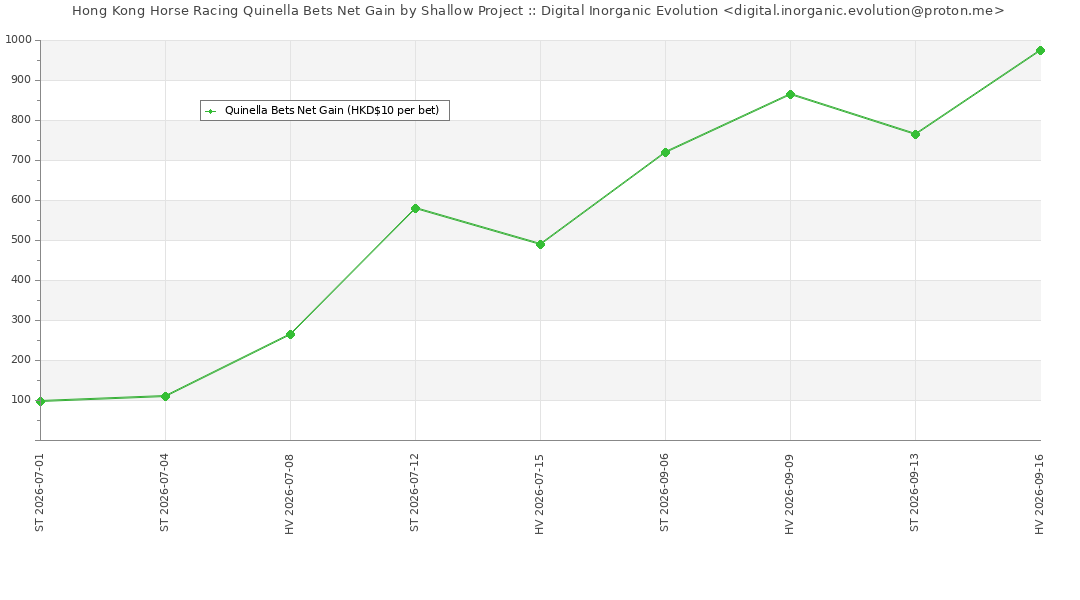
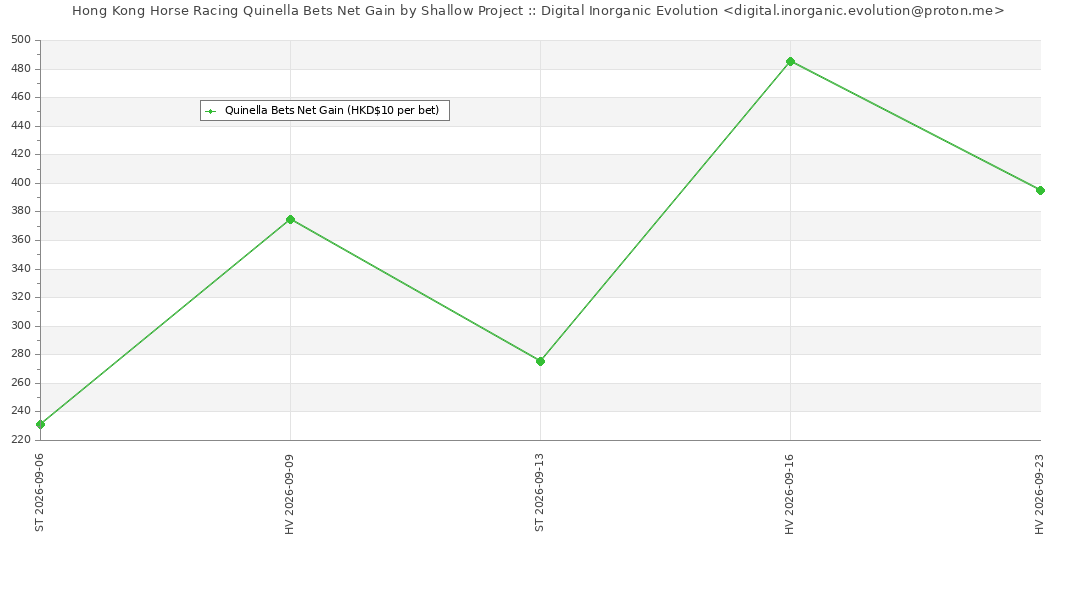
HKJC Prediction 2026-09-23

diff --git a/shallow.html b/shallow.html
@@ -14,14 +14,14 @@
 </head>
 <body>
 <h1>Digital Inorganic Evolution by <a href='https://viewlaboratory.wordpress.com/' target='_blank'>VIEWLab</a> 數碼無機進化賭博研究實驗室</h1>
-<h1>Shallow Project Experiment Results (2026-07-01 ~ )</h1>
+<h1>Shallow Project Experiment Results (2026-09-01 ~ )</h1>
 <p>
 <h2>Shallow Project :: HKJC Quinella Bets Net Gain Graph</h2>
 <img src='shallow.jpg'>
 <hr>
 <p>
 <h2>Betting Details</h2>
-	<table border=1><table id='shallow-table' class='cell-border compact stripe nowrap' border=1><thead><tr><th>RaceDate</th><th>RaceNo</th><th>H1HorseNo</th><th>H2HorseNo</th><th>H1Place</th><th>H2Place</th><th>Dividend Quinella</th></tr></thead><tbody><tr><td>2026-07-01</td><td>01</td><td>10</td><td>11</td><td>2</td><td>4</td><td>-10</td></tr><tr><td>2026-07-01</td><td>02</td><td>7</td><td>10</td><td>11</td><td>8</td><td>-10</td></tr><tr><td>2026-07-01</td><td>03</td><td>10</td><td>14</td><td>8</td><td>3</td><td>-10</td></tr><tr><td>2026-07-01</td><td>04</td><td>2</td><td>6</td><td>1</td><td>11</td><td>-10</td></tr><tr><td>2026-07-01</td><td>05</td><td>6</td><td>10</td><td>9</td><td>4</td><td>-10</td></tr><tr><td>2026-07-01</td><td>06</td><td>3</td><td>6</td><td>8</td><td>2</td><td>-10</td></tr><tr><td>2026-07-01</td><td>07</td><td>2</td><td>12</td><td>3</td><td>2</td><td>-10</td></tr><tr><td>2026-07-01</td><td>08</td><td>1</td><td>3</td><td>11</td><td>1</td><td>-10</td></tr><tr><td>2026-07-01</td><td>09</td><td>6</td><td>12</td><td>10</td><td>3</td><td>-10</td></tr><tr><td>2026-07-01</td><td>10</td><td>2</td><td>3</td><td><font color=red>2</font></td><td><font color=red>1</font></td><td><font color=red>207.00</font></td></tr><tr><td>2026-07-01</td><td>11</td><td>3</td><td>7</td><td>3</td><td>1</td><td>-10</td></tr><tr><td>2026-07-04</td><td>01</td><td>2</td><td>9</td><td>1</td><td>3</td><td>-10</td></tr><tr><td>2026-07-04</td><td>02</td><td>5</td><td>10</td><td>3</td><td>7</td><td>-10</td></tr><tr><td>2026-07-04</td><td>03</td><td>8</td><td>11</td><td>9</td><td>2</td><td>-10</td></tr><tr><td>2026-07-04</td><td>04</td><td>1</td><td>5</td><td>5</td><td>6</td><td>-10</td></tr><tr><td>2026-07-04</td><td>05</td><td>12</td><td>13</td><td>9</td><td>3</td><td>-10</td></tr><tr><td>2026-07-04</td><td>06</td><td>1</td><td>5</td><td>11</td><td>12</td><td>-10</td></tr><tr><td>2026-07-04</td><td>07</td><td>6</td><td>12</td><td>3</td><td>2</td><td>-10</td></tr><tr><td>2026-07-04</td><td>08</td><td>2</td><td>9</td><td>8</td><td>2</td><td>-10</td></tr><tr><td>2026-07-04</td><td>09</td><td>2</td><td>3</td><td>12</td><td>1</td><td>-10</td></tr><tr><td>2026-07-04</td><td>10</td><td>6</td><td>12</td><td>2</td><td>3</td><td>-10</td></tr><tr><td>2026-07-04</td><td>11</td><td>1</td><td>5</td><td><font color=red>1</font></td><td><font color=red>2</font></td><td><font color=red>122.50</font></td></tr><tr><td>2026-07-08</td><td>01</td><td>3</td><td>10</td><td>1</td><td>6</td><td>-10</td></tr><tr><td>2026-07-08</td><td>02</td><td>4</td><td>6</td><td>4</td><td>2</td><td>-10</td></tr><tr><td>2026-07-08</td><td>03</td><td>1</td><td>11</td><td>4</td><td>1</td><td>-10</td></tr><tr><td>2026-07-08</td><td>04</td><td>1</td><td>7</td><td><font color=red>1</font></td><td><font color=red>2</font></td><td><font color=red>198.00</font></td></tr><tr><td>2026-07-08</td><td>05</td><td>3</td><td>6</td><td>6</td><td>5</td><td>-10</td></tr><tr><td>2026-07-08</td><td>06</td><td>3</td><td>4</td><td><font color=red>2</font></td><td><font color=red>1</font></td><td><font color=red>48.00</font></td></tr><tr><td>2026-07-08</td><td>07</td><td>2</td><td>5</td><td>9</td><td>5</td><td>-10</td></tr><tr><td>2026-07-08</td><td>08</td><td>2</td><td>11</td><td>12</td><td>2</td><td>-10</td></tr><tr><td>2026-07-08</td><td>09</td><td>7</td><td>11</td><td>8</td><td>1</td><td>-10</td></tr><tr><td>2026-07-12</td><td>01</td><td>1</td><td>4</td><td>1</td><td>5</td><td>-10</td></tr><tr><td>2026-07-12</td><td>02</td><td>7</td><td>10</td><td>1</td><td>4</td><td>-10</td></tr><tr><td>2026-07-12</td><td>03</td><td>10</td><td>14</td><td>3</td><td>6</td><td>-10</td></tr><tr><td>2026-07-12</td><td>04</td><td>2</td><td>7</td><td>1</td><td>11</td><td>-10</td></tr><tr><td>2026-07-12</td><td>05</td><td>1</td><td>3</td><td>3</td><td>6</td><td>-10</td></tr><tr><td>2026-07-12</td><td>06</td><td>6</td><td>8</td><td>12</td><td>3</td><td>-10</td></tr><tr><td>2026-07-12</td><td>07</td><td>9</td><td>10</td><td>9</td><td>4</td><td>-10</td></tr><tr><td>2026-07-12</td><td>08</td><td>5</td><td>10</td><td>7</td><td>8</td><td>-10</td></tr><tr><td>2026-07-12</td><td>09</td><td>4</td><td>8</td><td>7</td><td>3</td><td>-10</td></tr><tr><td>2026-07-12</td><td>10</td><td>4</td><td>13</td><td><font color=red>2</font></td><td><font color=red>1</font></td><td><font color=red>424.00</font></td></tr><tr><td>2026-07-12</td><td>11</td><td>1</td><td>6</td><td>5</td><td>6</td><td>-10</td></tr><tr><td>2026-07-15</td><td>01</td><td>11</td><td>12</td><td>2</td><td>4</td><td>-10</td></tr><tr><td>2026-07-15</td><td>02</td><td>2</td><td>9</td><td>4</td><td>2</td><td>-10</td></tr><tr><td>2026-07-15</td><td>03</td><td>8</td><td>12</td><td>5</td><td>8</td><td>-10</td></tr><tr><td>2026-07-15</td><td>04</td><td>1</td><td>4</td><td>2</td><td>4</td><td>-10</td></tr><tr><td>2026-07-15</td><td>05</td><td>3</td><td>12</td><td>4</td><td>1</td><td>-10</td></tr><tr><td>2026-07-15</td><td>06</td><td>1</td><td>11</td><td>4</td><td>2</td><td>-10</td></tr><tr><td>2026-07-15</td><td>07</td><td>10</td><td>11</td><td>5</td><td>1</td><td>-10</td></tr><tr><td>2026-07-15</td><td>08</td><td>5</td><td>11</td><td>6</td><td>3</td><td>-10</td></tr><tr><td>2026-07-15</td><td>09</td><td>2</td><td>11</td><td>4</td><td>2</td><td>-10</td></tr><tr><td>2026-09-06</td><td>01</td><td>4</td><td>11</td><td>6</td><td>5</td><td>-10</td></tr><tr><td>2026-09-06</td><td>02</td><td>1</td><td>6</td><td>1</td><td>5</td><td>-10</td></tr><tr><td>2026-09-06</td><td>03</td><td>1</td><td>3</td><td>1</td><td>6</td><td>-10</td></tr><tr><td>2026-09-06</td><td>04</td><td>1</td><td>12</td><td>2</td><td>12</td><td>-10</td></tr><tr><td>2026-09-06</td><td>05</td><td>1</td><td>11</td><td>13</td><td>9</td><td>-10</td></tr><tr><td>2026-09-06</td><td>06</td><td>1</td><td>3</td><td><font color=red>1</font></td><td><font color=red>2</font></td><td><font color=red>153.50</font></td></tr><tr><td>2026-09-06</td><td>07</td><td>3</td><td>4</td><td>6</td><td>8</td><td>-10</td></tr><tr><td>2026-09-06</td><td>08</td><td>1</td><td>2</td><td><font color=red>1</font></td><td><font color=red>2</font></td><td><font color=red>177.50</font></td></tr><tr><td>2026-09-06</td><td>09</td><td>4</td><td>5</td><td>4</td><td>1</td><td>-10</td></tr><tr><td>2026-09-06</td><td>10</td><td>6</td><td>12</td><td>9</td><td>12</td><td>-10</td></tr><tr><td>2026-09-09</td><td>01</td><td>5</td><td>10</td><td>3</td><td>4</td><td>-10</td></tr><tr><td>2026-09-09</td><td>02</td><td>1</td><td>9</td><td>1</td><td>4</td><td>-10</td></tr><tr><td>2026-09-09</td><td>03</td><td>4</td><td>11</td><td>4</td><td>3</td><td>-10</td></tr><tr><td>2026-09-09</td><td>04</td><td>2</td><td>4</td><td>4</td><td>2</td><td>-10</td></tr><tr><td>2026-09-09</td><td>05</td><td>4</td><td>5</td><td>6</td><td>4</td><td>-10</td></tr><tr><td>2026-09-09</td><td>06</td><td>2</td><td>5</td><td>12</td><td>3</td><td>-10</td></tr><tr><td>2026-09-09</td><td>07</td><td>1</td><td>2</td><td><font color=red>1</font></td><td><font color=red>2</font></td><td><font color=red>224.00</font></td></tr><tr><td>2026-09-09</td><td>08</td><td>8</td><td>10</td><td>4</td><td>7</td><td>-10</td></tr><tr><td>2026-09-13</td><td>01</td><td>10</td><td>11</td><td>1</td><td>3</td><td>-10</td></tr><tr><td>2026-09-13</td><td>02</td><td>8</td><td>11</td><td>1</td><td>3</td><td>-10</td></tr><tr><td>2026-09-13</td><td>03</td><td>4</td><td>12</td><td>6</td><td>7</td><td>-10</td></tr><tr><td>2026-09-13</td><td>04</td><td>2</td><td>11</td><td>1</td><td>6</td><td>-10</td></tr><tr><td>2026-09-13</td><td>05</td><td>2</td><td>11</td><td>1</td><td>5</td><td>-10</td></tr><tr><td>2026-09-13</td><td>06</td><td>5</td><td>9</td><td>2</td><td>4</td><td>-10</td></tr><tr><td>2026-09-13</td><td>07</td><td>3</td><td>13</td><td>6</td><td>12</td><td>-10</td></tr><tr><td>2026-09-13</td><td>08</td><td>12</td><td>13</td><td>5</td><td>6</td><td>-10</td></tr><tr><td>2026-09-13</td><td>09</td><td>2</td><td>4</td><td>3</td><td>4</td><td>-10</td></tr><tr><td>2026-09-13</td><td>10</td><td>1</td><td>11</td><td>9</td><td>7</td><td>-10</td></tr><tr><td>2026-09-16</td><td>01</td><td>2</td><td>7</td><td>8</td><td>7</td><td>-10</td></tr><tr><td>2026-09-16</td><td>02</td><td>3</td><td>8</td><td><font color=red>1</font></td><td><font color=red>2</font></td><td><font color=red>110.50</font></td></tr><tr><td>2026-09-16</td><td>03</td><td>6</td><td>7</td><td><font color=red>2</font></td><td><font color=red>1</font></td><td><font color=red>179.50</font></td></tr><tr><td>2026-09-16</td><td>04</td><td>3</td><td>12</td><td>1</td><td>3</td><td>-10</td></tr><tr><td>2026-09-16</td><td>05</td><td>6</td><td>8</td><td>1</td><td>6</td><td>-10</td></tr><tr><td>2026-09-16</td><td>06</td><td>2</td><td>3</td><td>1</td><td>9</td><td>-10</td></tr><tr><td>2026-09-16</td><td>07</td><td>2</td><td>8</td><td>10</td><td>8</td><td>-10</td></tr><tr><td>2026-09-16</td><td>08</td><td>6</td><td>8</td><td>6</td><td>11</td><td>-10</td></tr></tbody></table></table><table border=1><tr><td>Num. Bets</td><td>Num. Quinella Win</td><td>Quinella Accuracy</td><td>Bet Total$</td><td>Quinella Win$</td><td>Ratio</td></tr><td>87</td><td>10</td><td>0.115</td><td>$870</td><td><font color=red>$1844.5 ($974.5)</font></td><td>1.12</td></tr><table border=1><hr>		<li><i>Enquiries: digital.inorganic.evolution@proton.me</i></li>
+	<table border=1><table id='shallow-table' class='cell-border compact stripe nowrap' border=1><thead><tr><th>RaceDate</th><th>RaceNo</th><th>H1HorseNo</th><th>H2HorseNo</th><th>H1Place</th><th>H2Place</th><th>Dividend Quinella</th></tr></thead><tbody><tr><td>2026-09-06</td><td>01</td><td>4</td><td>11</td><td>6</td><td>5</td><td>-10</td></tr><tr><td>2026-09-06</td><td>02</td><td>1</td><td>6</td><td>1</td><td>5</td><td>-10</td></tr><tr><td>2026-09-06</td><td>03</td><td>1</td><td>3</td><td>1</td><td>6</td><td>-10</td></tr><tr><td>2026-09-06</td><td>04</td><td>1</td><td>12</td><td>2</td><td>12</td><td>-10</td></tr><tr><td>2026-09-06</td><td>05</td><td>1</td><td>11</td><td>13</td><td>9</td><td>-10</td></tr><tr><td>2026-09-06</td><td>06</td><td>1</td><td>3</td><td><font color=red>1</font></td><td><font color=red>2</font></td><td><font color=red>153.50</font></td></tr><tr><td>2026-09-06</td><td>07</td><td>3</td><td>4</td><td>6</td><td>8</td><td>-10</td></tr><tr><td>2026-09-06</td><td>08</td><td>1</td><td>2</td><td><font color=red>1</font></td><td><font color=red>2</font></td><td><font color=red>177.50</font></td></tr><tr><td>2026-09-06</td><td>09</td><td>4</td><td>5</td><td>4</td><td>1</td><td>-10</td></tr><tr><td>2026-09-06</td><td>10</td><td>6</td><td>12</td><td>9</td><td>12</td><td>-10</td></tr><tr><td>2026-09-09</td><td>01</td><td>5</td><td>10</td><td>3</td><td>4</td><td>-10</td></tr><tr><td>2026-09-09</td><td>02</td><td>1</td><td>9</td><td>1</td><td>4</td><td>-10</td></tr><tr><td>2026-09-09</td><td>03</td><td>4</td><td>11</td><td>4</td><td>3</td><td>-10</td></tr><tr><td>2026-09-09</td><td>04</td><td>2</td><td>4</td><td>4</td><td>2</td><td>-10</td></tr><tr><td>2026-09-09</td><td>05</td><td>4</td><td>5</td><td>6</td><td>4</td><td>-10</td></tr><tr><td>2026-09-09</td><td>06</td><td>2</td><td>5</td><td>12</td><td>3</td><td>-10</td></tr><tr><td>2026-09-09</td><td>07</td><td>1</td><td>2</td><td><font color=red>1</font></td><td><font color=red>2</font></td><td><font color=red>224.00</font></td></tr><tr><td>2026-09-09</td><td>08</td><td>8</td><td>10</td><td>4</td><td>7</td><td>-10</td></tr><tr><td>2026-09-13</td><td>01</td><td>10</td><td>11</td><td>1</td><td>3</td><td>-10</td></tr><tr><td>2026-09-13</td><td>02</td><td>8</td><td>11</td><td>1</td><td>3</td><td>-10</td></tr><tr><td>2026-09-13</td><td>03</td><td>4</td><td>12</td><td>6</td><td>7</td><td>-10</td></tr><tr><td>2026-09-13</td><td>04</td><td>2</td><td>11</td><td>1</td><td>6</td><td>-10</td></tr><tr><td>2026-09-13</td><td>05</td><td>2</td><td>11</td><td>1</td><td>5</td><td>-10</td></tr><tr><td>2026-09-13</td><td>06</td><td>5</td><td>9</td><td>2</td><td>4</td><td>-10</td></tr><tr><td>2026-09-13</td><td>07</td><td>3</td><td>13</td><td>6</td><td>12</td><td>-10</td></tr><tr><td>2026-09-13</td><td>08</td><td>12</td><td>13</td><td>5</td><td>6</td><td>-10</td></tr><tr><td>2026-09-13</td><td>09</td><td>2</td><td>4</td><td>3</td><td>4</td><td>-10</td></tr><tr><td>2026-09-13</td><td>10</td><td>1</td><td>11</td><td>9</td><td>7</td><td>-10</td></tr><tr><td>2026-09-16</td><td>01</td><td>2</td><td>7</td><td>8</td><td>7</td><td>-10</td></tr><tr><td>2026-09-16</td><td>02</td><td>3</td><td>8</td><td><font color=red>1</font></td><td><font color=red>2</font></td><td><font color=red>110.50</font></td></tr><tr><td>2026-09-16</td><td>03</td><td>6</td><td>7</td><td><font color=red>2</font></td><td><font color=red>1</font></td><td><font color=red>179.50</font></td></tr><tr><td>2026-09-16</td><td>04</td><td>3</td><td>12</td><td>1</td><td>3</td><td>-10</td></tr><tr><td>2026-09-16</td><td>05</td><td>6</td><td>8</td><td>1</td><td>6</td><td>-10</td></tr><tr><td>2026-09-16</td><td>06</td><td>2</td><td>3</td><td>1</td><td>9</td><td>-10</td></tr><tr><td>2026-09-16</td><td>07</td><td>2</td><td>8</td><td>10</td><td>8</td><td>-10</td></tr><tr><td>2026-09-16</td><td>08</td><td>6</td><td>8</td><td>6</td><td>11</td><td>-10</td></tr><tr><td>2026-09-23</td><td>01</td><td>3</td><td>11</td><td><font color=red></font></td><td><font color=red></font></td><td>-10</td></tr><tr><td>2026-09-23</td><td>02</td><td>7</td><td>10</td><td><font color=red></font></td><td><font color=red></font></td><td>-10</td></tr><tr><td>2026-09-23</td><td>03</td><td>2</td><td>8</td><td><font color=red></font></td><td><font color=red></font></td><td>-10</td></tr><tr><td>2026-09-23</td><td>04</td><td>6</td><td>11</td><td><font color=red></font></td><td><font color=red></font></td><td>-10</td></tr><tr><td>2026-09-23</td><td>05</td><td>5</td><td>6</td><td><font color=red></font></td><td><font color=red></font></td><td>-10</td></tr><tr><td>2026-09-23</td><td>06</td><td>4</td><td>9</td><td><font color=red></font></td><td><font color=red></font></td><td>-10</td></tr><tr><td>2026-09-23</td><td>07</td><td>2</td><td>6</td><td><font color=red></font></td><td><font color=red></font></td><td>-10</td></tr><tr><td>2026-09-23</td><td>08</td><td>1</td><td>8</td><td><font color=red></font></td><td><font color=red></font></td><td>-10</td></tr><tr><td>2026-09-23</td><td>09</td><td>1</td><td>3</td><td><font color=red></font></td><td><font color=red></font></td><td>-10</td></tr></tbody></table></table><table border=1><tr><td>Num. Bets</td><td>Num. Quinella Win</td><td>Quinella Accuracy</td><td>Bet Total$</td><td>Quinella Win$</td><td>Ratio</td></tr><td>45</td><td>5</td><td>0.111</td><td>$450</td><td><font color=red>$845 ($395)</font></td><td>0.88</td></tr><table border=1><hr>		<li><i>Enquiries: digital.inorganic.evolution@proton.me</i></li>
 		<hr>
 <p>
 <a href="https://github.com/Digital-Inorganic-Evolution/Digital-Inorganic-Evolution.github.io/commits/main/" target="_blank">Check Commits on GitHub</a>
@@ -29,7 +29,7 @@
 <i>Research Disclaimer: Predictions published by the SHALLOW (Digital Inorganic Evolution Research Project) are provided solely for research, educational, and model verification purposes. 
 They are intended to enable transparent evaluation of experimental results and are not betting advice, gambling recommendations, or financial advice. The project does not promote or encourage gambling. Any betting decisions made by individuals are entirely their own responsibility.</i>
 <p>
-<h4>Generated at HKT 2026-09-17 05:37:54</h4>
+<h4>Generated at HKT 2026-09-23 18:55:22</h4>
 	
 <script src="https://code.jquery.com/jquery-3.7.1.min.js"></script>
 <script type="text/javascript" src="https://cdn.datatables.net/2.3.7/js/dataTables.min.js"></script>  

diff --git a/dissent.html b/dissent.html
@@ -247,6 +247,24 @@
 <tr><td>2026-09-14</td><td>Thirsk</td><td>1421</td><td>Pop The Question</td><td>9</td><td>0</td><td>65.94</td></tr>
 
 <tr><td>2026-09-15</td><td>Wolverhampton</td><td>2030</td><td>Sumatran Tiger</td><td>5</td><td>0</td><td>64.94</td></tr>
+
+<tr><td>2026-09-17</td><td>Ayr</td><td>1701</td><td>Golden West</td><td>8</td><td>0</td><td>63.94</td></tr>
+
+<tr><td>2026-09-17</td><td>Pontefract</td><td>1638</td><td>Merrijig</td><td>4</td><td>0</td><td>62.94</td></tr>
+
+<tr><td>2026-09-17</td><td>Southwell</td><td>1725</td><td>Charging Thunder</td><td>4</td><td>0</td><td>61.94</td></tr>
+
+<tr><td>2026-09-18</td><td>Ayr</td><td>1720</td><td>Cascade Hall</td><td>2</td><td>0</td><td>60.94</td></tr>
+
+<tr><td>2026-09-18</td><td>Wolverhampton</td><td>1945</td><td>Billy Bathgate</td><td>6</td><td>0</td><td>59.94</td></tr>
+
+<tr><td>2026-09-19</td><td>Newbury</td><td>1337</td><td>Primo Lara</td><td>3</td><td>0</td><td>58.94</td></tr>
+
+<tr><td>2026-09-19</td><td>Newmarket</td><td>1620</td><td>Premiere Ligne</td><td>1</td><td>5</td><td>62.94</td></tr>
+
+<tr><td>2026-09-19</td><td>Chester</td><td>1725</td><td>Bulldog Spirit</td><td>6</td><td>0</td><td>61.94</td></tr>
+
+<tr><td>2026-09-21</td><td>Ffos Las</td><td>1544</td><td>Torcello</td><td>8</td><td>0</td><td>60.94</td></tr>
 </tbody></table>	<li><i>Enquiries: digital.inorganic.evolution@proton.me</i></li>
 	<hr>
 <p>
@@ -255,7 +273,7 @@
 <i>Research Disclaimer: Predictions published by the DISSENT (Digital Inorganic Evolution Research Project) are provided solely for research, educational, and model verification purposes. 
 They are intended to enable transparent evaluation of experimental results and are not betting advice, gambling recommendations, or financial advice. The project does not promote or encourage gambling. Any betting decisions made by individuals are entirely their own responsibility.</i>
 <p>
-<h4>Generated at HKT 2026-09-17 05:37:57</h4>
+<h4>Generated at HKT 2026-09-23 18:55:26</h4>
 	
 <script src="https://code.jquery.com/jquery-3.7.1.min.js"></script>
 <script type="text/javascript" src="https://cdn.datatables.net/2.3.7/js/dataTables.min.js"></script>  
